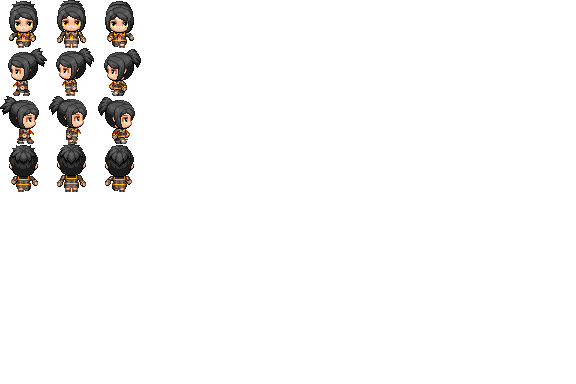
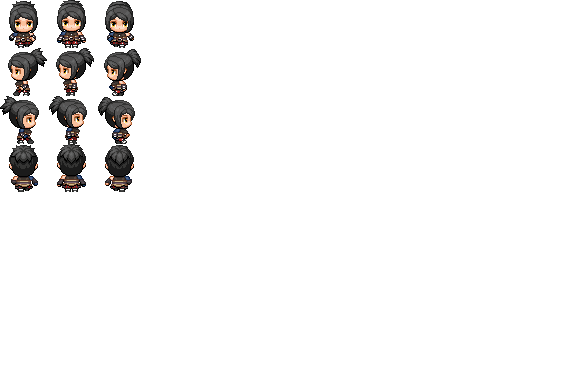
Changes character spritesheet. Adds ability for arrow keys to move character

diff --git a/classes/Player.py b/classes/Player.py
@@ -15,29 +15,57 @@ class Player(ICharacter.ICharacter):
 		self._setSpriteSheet()
 		self._setRect()
 
-		self.spriteSheetMap = {
-			"direction":{
-				enum.Direction.UP:3,
-				enum.Direction.LEFT:1,
-				enum.Direction.RIGHT:2,
-				enum.Direction.DOWN:0
-			},
-			"walk":{
-				0:1,
-				1:0,
-				2:1,
-				3:2
-			}
-		}
-		self.animationState = {
-			"direction":enum.Direction.DOWN,
-			"walk":0
-		}
-
 		return
 
+	def setDirection(self, direction):
+		# TODO - check if the direction is in the enum
+		self.state["update"] = True
+		self.state["direction"] = direction
+
+	def setWalking(self, isWalking):
+		# TODO - check if the direction is in the enum
+		self.state["update"] = True
+		self.state["walking"] = isWalking
+
+	def inputControl(self, event):
+		"""
+		Handles key input to handle player control
+		"""
+		# Start moving
+		if event.type == pygame.KEYDOWN:
+			if event.key == pygame.K_LEFT:
+				self.setMoving("x", -1)
+
+			if event.key == pygame.K_DOWN:
+				self.setMoving("y", 1)
+
+			if event.key == pygame.K_RIGHT:
+				self.setMoving("x", 1)
+
+			if event.key == pygame.K_UP:
+				self.setMoving("y", -1)
+
+		# End moving
+		if event.type == pygame.KEYUP:
+			if event.key == pygame.K_LEFT:
+				self.setMoving("x", 1)
+
+			if event.key == pygame.K_DOWN:
+				self.setMoving("y", -1)
+
+			if event.key == pygame.K_RIGHT:
+				self.setMoving("x", -1)
+
+			if event.key == pygame.K_UP:
+				self.setMoving("y", 1)
+	
+	def setMoving(self, direction, speed):
+		self.moving[direction] += speed
+
 	def update(self):
-		self.updateImage()		
+		self.move()
+
+		self.updateImage() # Update Animation		
 
 
 	def updateImage(self):
@@ -45,8 +73,25 @@ class Player(ICharacter.ICharacter):
 		Sets the individual image to load
 		"""
 		# TODO - base state of of delta time (time between frames) to prevent slowdown from FPS dropping
-		self.animationState["walk"] = (self.animationState["walk"] + 0.2) % 4
+		if self.moving["x"] != 0 or self.moving["y"] != 0:
+			self.animationState["walk"] = (self.animationState["walk"] + 0.2) % 4
+
+			# Determine which way we're moving
+			if self.moving["x"] > 0:
+				self.animationState["direction"] = enum.Direction.RIGHT
+
+			elif self.moving["x"] < 0:
+				self.animationState["direction"] = enum.Direction.LEFT
+
+			elif self.moving["y"] > 0:
+				self.animationState["direction"] = enum.Direction.DOWN
+
+			elif self.moving["y"] < 0:
+				self.animationState["direction"] = enum.Direction.UP
 		
+		else:
+			self.animationState["walk"] = 0
+
 		# TODO - reuse the same Rect, just move it around 
 		self.image = self.spriteSheet.subsurface(
 			self.spriteSheetMap['walk'][math.floor(self.animationState["walk"])] * constant.tileSize, 

diff --git a/classes/ICharacter.py b/classes/ICharacter.py
@@ -1,4 +1,7 @@
 import classes.IEntity as IEntity
+import classes.enums as enum
+
+
 class ICharacter(IEntity.IEntity):
 	def __init__(self):
 		IEntity.IEntity.__init__(self)
@@ -15,12 +18,32 @@ class ICharacter(IEntity.IEntity):
 
 		self.interactText = "Some strange being. You can't seem to tell what it is."
 
-		self.moveSpeed = 5
+		self.moveSpeed = 3
 
-	def act():
+		self.spriteSheetMap = {
+			"direction":{
+				enum.Direction.UP:3,
+				enum.Direction.LEFT:1,
+				enum.Direction.RIGHT:2,
+				enum.Direction.DOWN:0
+			},
+			"walk":{
+				0:1,
+				1:0,
+				2:1,
+				3:2
+			}
+		}
+		self.animationState = {
+			"direction":enum.Direction.DOWN,
+			"walk":0
+		}
+
+	
+
+	def act(self):
 		"""
 		Instructs the Character to act in some way. Move to NPCs?
 		"""
 		return
 
-	

diff --git a/classes/IEntity.py b/classes/IEntity.py
@@ -32,7 +32,11 @@ class IEntity(pygame.sprite.Sprite):
 
 		self.currentVelocity = [0, 0] # The current velocity of an entity
 		self.targetVelocity = [0, 0] # The target velocity of an entity (we acclerate to)
-
+		self.moving = {
+			"x":0,
+			"y":0
+		}
+		self.moveSpeed = 0
 		self.maxAcceleration = 1	# The change in velocity that can be done in a single frame
 
 		self.tileSize = (1,1) # Size in tiles
@@ -45,7 +49,10 @@ class IEntity(pygame.sprite.Sprite):
 		""" 
 		Overloads the Sprite's move method to handle movement on its own
 		"""
-		self.rect = self.rect.move(self.currentVelocity)
+
+		# Ensure final move speed is at most moveSpeed
+		
+		self.rect = self.rect.move([self.moving["x"] * self.moveSpeed, self.moving["y"] * self.moveSpeed])
 
 	def update(self):
 		"""

diff --git a/classes/Game.py b/classes/Game.py
@@ -3,6 +3,7 @@ import pygame
 
 # Project Packages
 import classes.constant as constant
+import classes.enums as enum
 import classes.IEntity as IEntity
 import classes.Player as Player
 
@@ -49,6 +50,10 @@ class Game:
 		for event in pygame.event.get():
 			if event.type == pygame.QUIT:
 				exit() # TODO - find system-specific exits
+
+			if event.type == pygame.KEYDOWN or event.type == pygame.KEYUP:
+				self.player.inputControl(event)
+
 
 		self.player.update()
 
